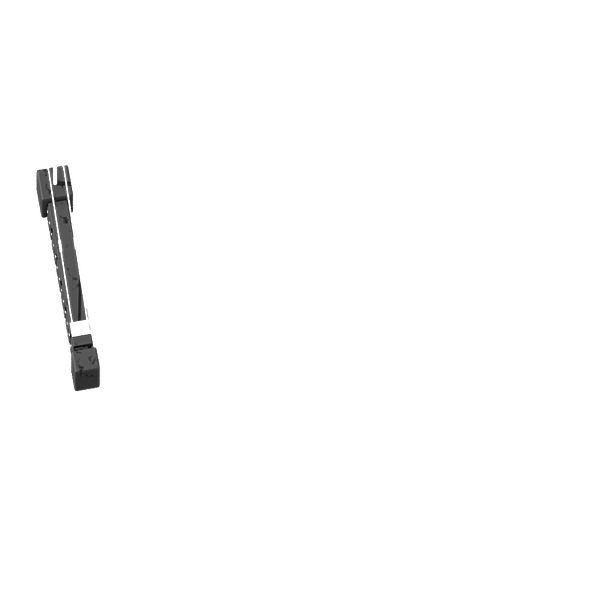
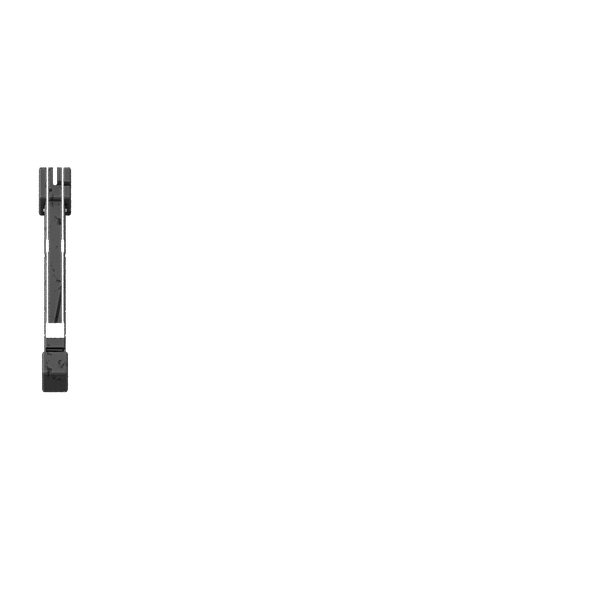
fix(Aussehen): Ausleger in Ost/West wieder gerade
Marcel: die 10°-Schräge sah komisch aus.

Changed region(s): [[0.0601, 0.2678, 0.1803, 0.6545]]

diff --git a/tools/grafik/render_stop.py b/tools/grafik/render_stop.py
@@ -26,9 +26,9 @@ rig.lights()
 # Ausleger gedreht bis ≈ 5,6 Felder hoch im Bild, Schatten bis ≈ 7 Felder nach rechts; sprites.py schneidet zu
 rig.camera(13, 12, shift=0.8, shift_x=1.5)
 catcher = rig.shadow_catcher()
-# Je Richtung neu bauen, mit eigenem seed: die Kabel liegen dann in jeder Richtung etwas anders. In Ost/West ist der
-# Ausleger wie bei Vanilla etwas verdreht, sonst sähe man ihn nur von vorn.
-ARM_YAW = {"east": 10.0, "west": 10.0}
+# Je Richtung neu bauen, mit eigenem seed: die Kabel liegen dann in jeder Richtung etwas anders. Ausleger in Ost/West
+# verdrehen (wie Vanilla) ginge über ARM_YAW = {"east": 10.0, "west": 10.0} – Marcel wollte ihn gerade (24.10.2026).
+ARM_YAW = {}
 os.makedirs(out, exist_ok=True)
 for d in directions:
     old = bpy.data.objects.get("Drehpunkt")
